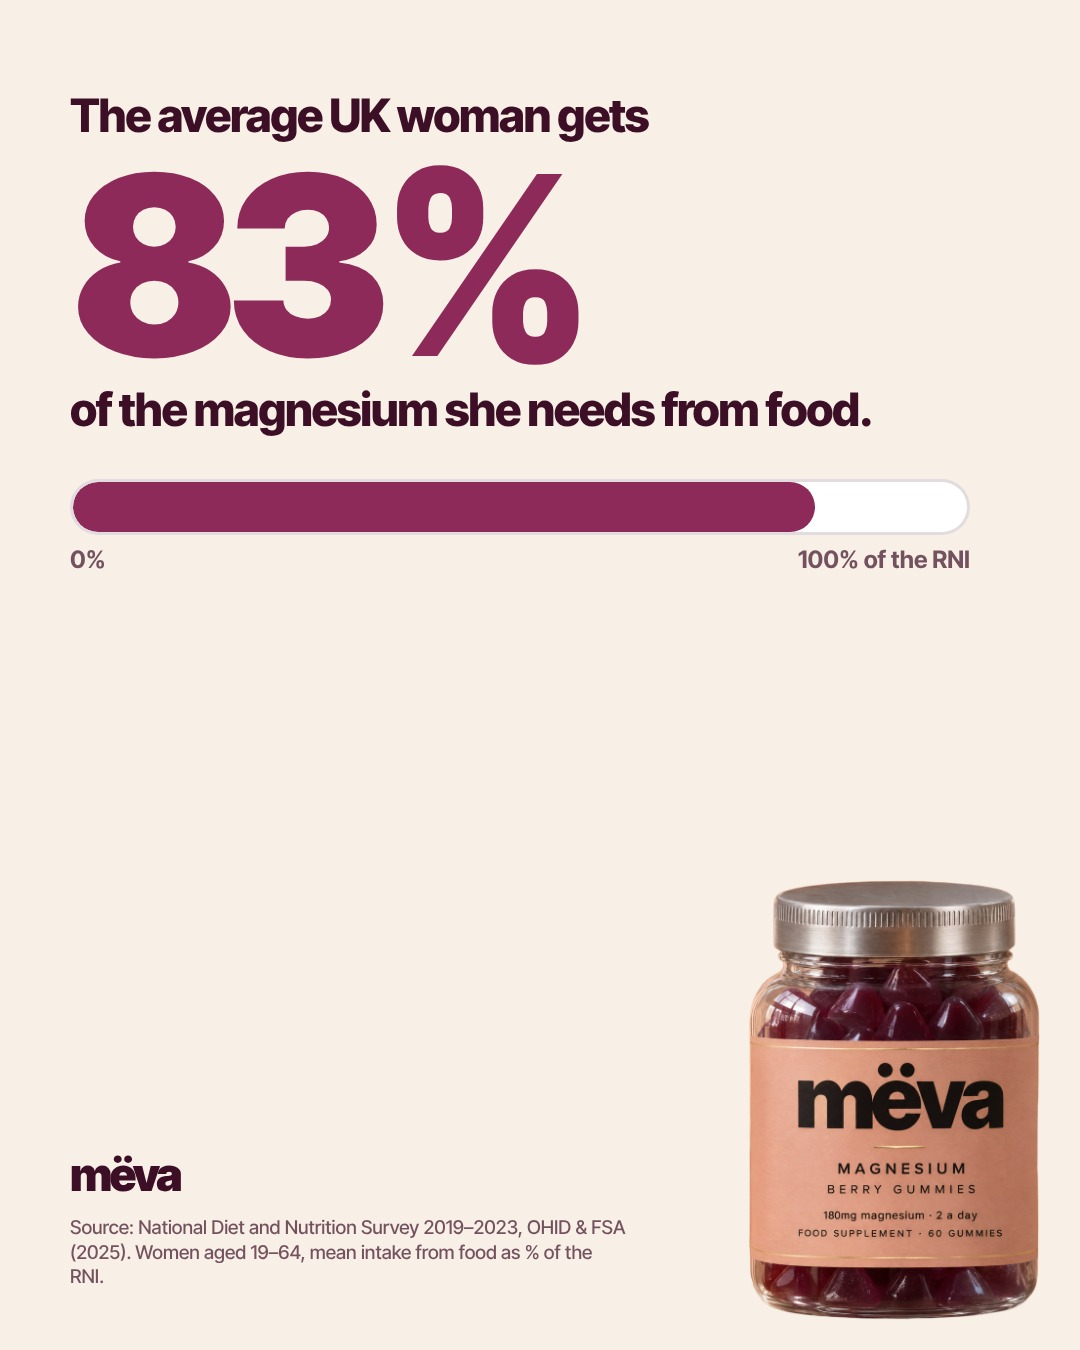
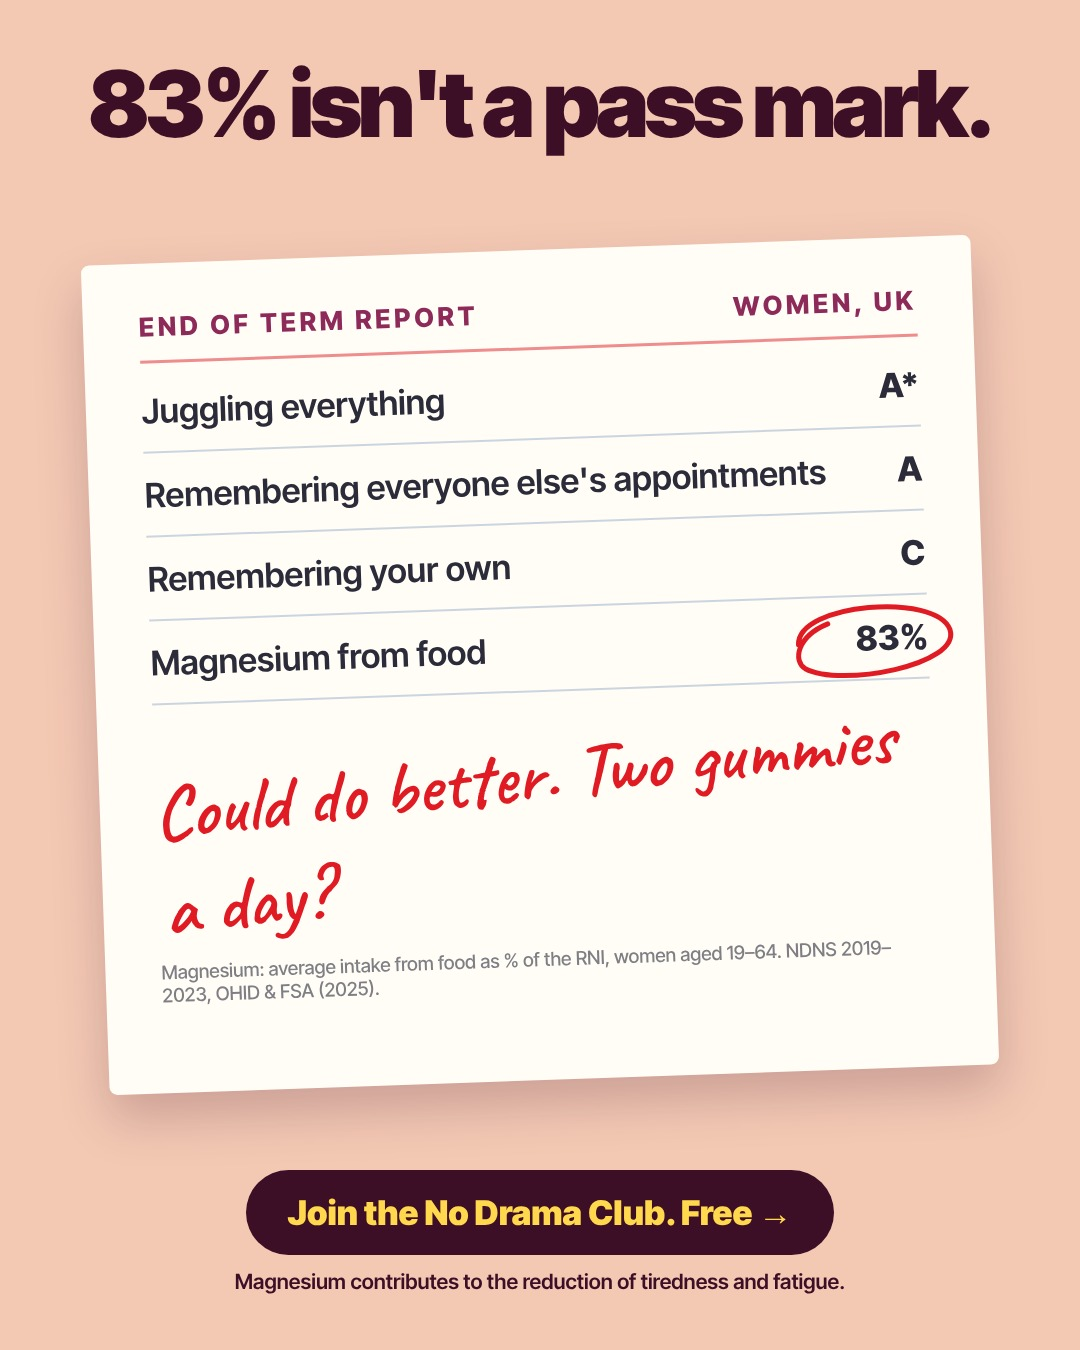
Mëva ads: B3 report card final
Claude-Session: https://claude.ai/code/session_01WXdKv1YfkNwKWVtsSuXmEc

diff --git a/meva/ads/campaign-r1-spec.md b/meva/ads/campaign-r1-spec.md
@@ -24,7 +24,7 @@
 - Images: feed JPGs. Their public URLs are in `2026-11-13/_image-urls.json`.
 - Link: `https://trymeva.co/products/meva-magnesium-gummies`
 - URL parameters (url_tags on every ad): `utm_source=meta&utm_medium=paid_social&utm_campaign={{campaign.name}}&utm_term={{adset.name}}&utm_content={{ad.name}}&placement={{placement}}`
-- Ad names: `A1_180mg-front`, `A2_check-bottle`, `A3_simplified`, `A4_circled-dose`, `A5_sticky-note`, `B1_3pm-empty`, `B2_15pct`, `B3_83pct`, `B4_todo-list`, `B5_tired-same`, `C1_056-a-day`, `C2_guarantee`, `C3_3for2`, `C4_faq-free`, `C5_first-500`
+- Ad names: `A1_180mg-front`, `A2_check-bottle`, `A3_simplified`, `A4_circled-dose`, `A5_sticky-note`, `B1_3pm-empty`, `B2_15pct`, `B3_report-card`, `B4_todo-list`, `B5_tired-same`, `C1_056-a-day`, `C2_guarantee`, `C3_3for2`, `C4_faq-free`, `C5_first-500`
 - Headline: "Join free: 20% off your first jar"
 - Description: "Nothing to pay today"
 - CTA: SIGN_UP
